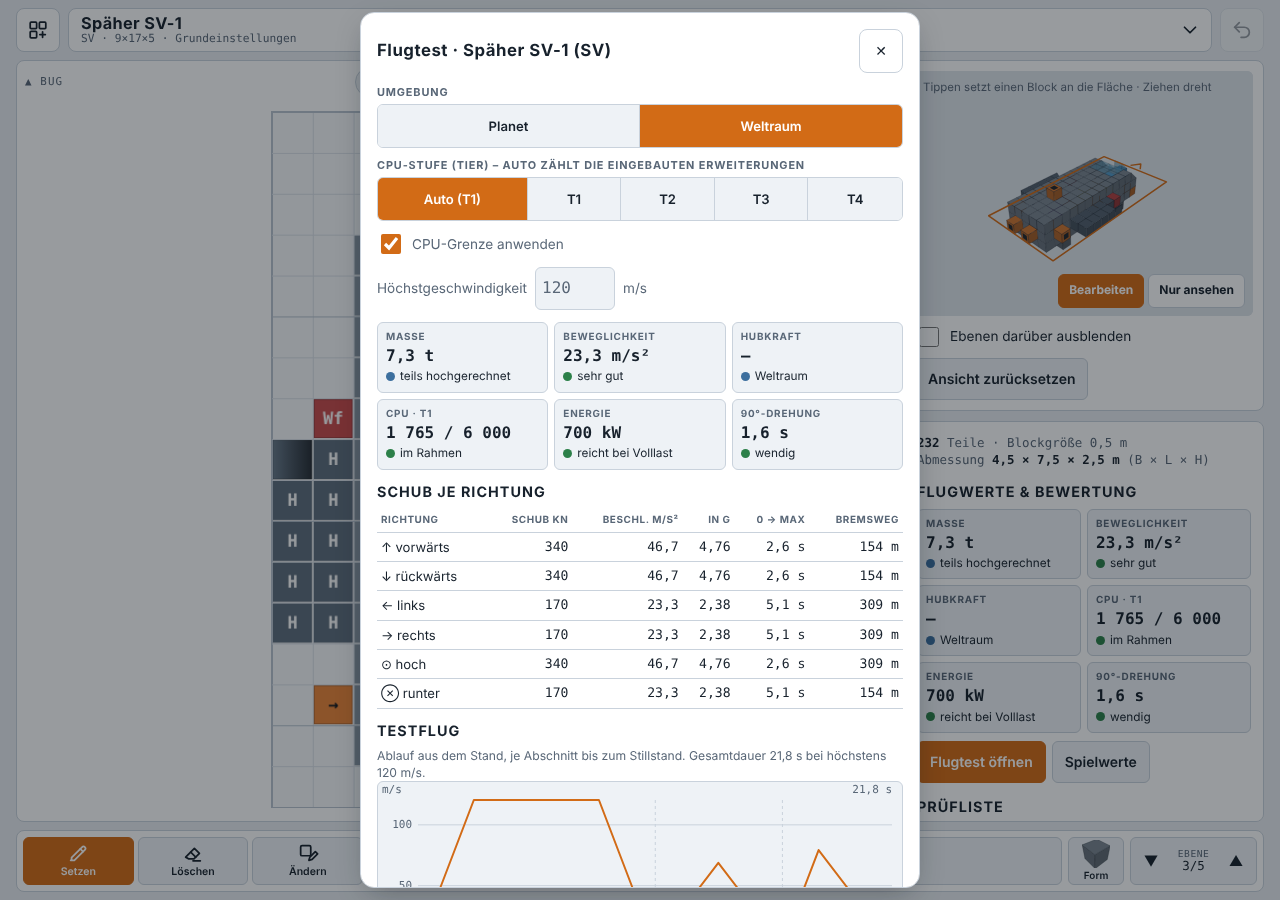
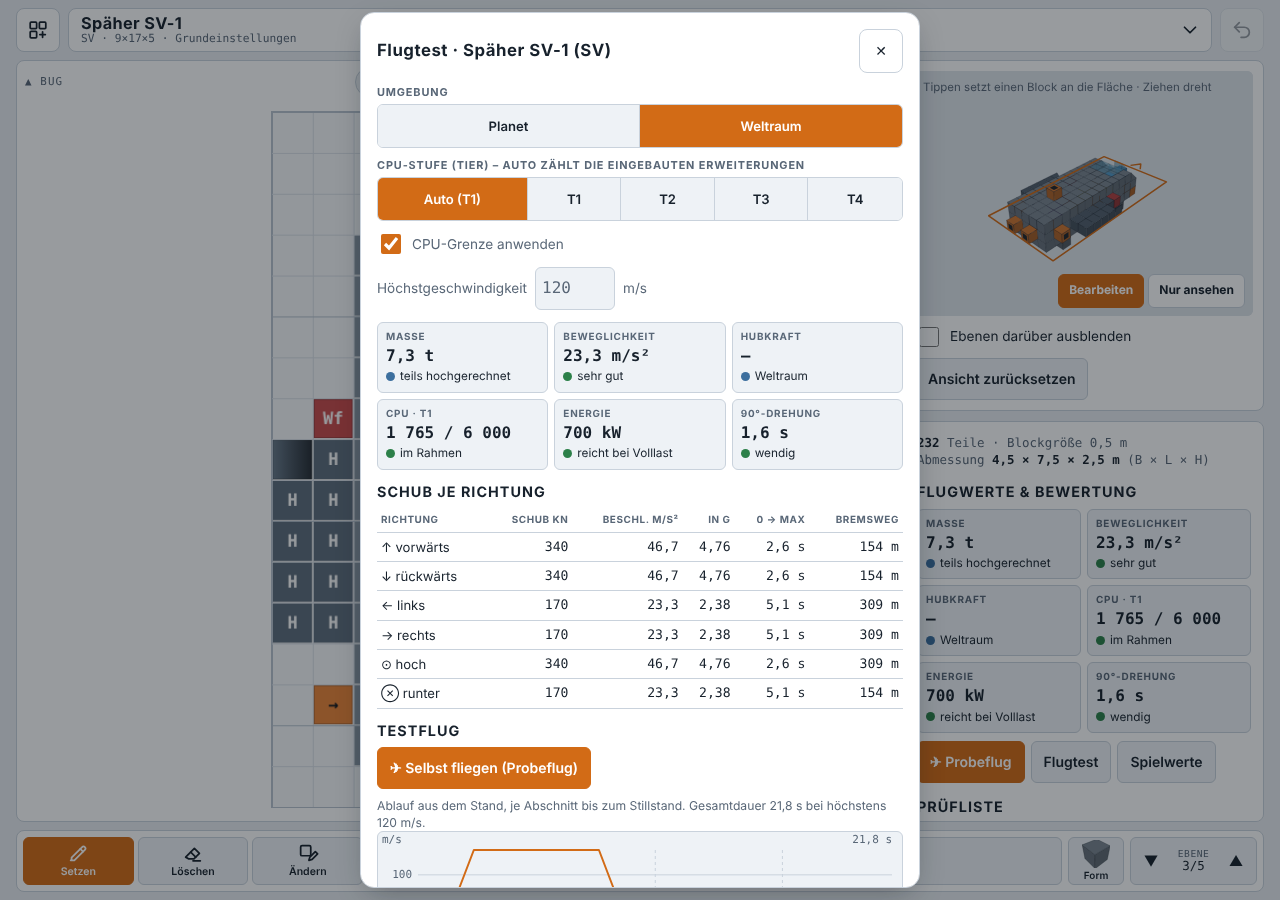
Werftplaner v13: Probeflug – Schiff selbst fliegen mit Touch-Joysticks oder Tastatur, Ringparcours mit Bestzeit
Claude-Session: https://claude.ai/code/session_01EEE27PnyooVbBu9ojswhkn

Changed region(s): [[0.2812, 0.8089, 0.6875, 0.9956], [0.7188, 0.8089, 0.9375, 0.8711]]

diff --git a/index.html b/index.html
@@ -249,6 +249,24 @@ kbd{font-family:var(--f-mono);font-size:.7rem;border:1px solid var(--line);borde
 .ctip{position:absolute;pointer-events:none;background:var(--panel);border:1px solid var(--line);border-radius:6px;padding:4px 7px;font-size:.74rem;font-family:var(--f-mono);box-shadow:var(--shadow);white-space:nowrap;z-index:2}
 .fnote{font-size:.74rem;color:var(--muted);margin:0;line-height:1.45}
 
+/* Probeflug */
+.sim{position:fixed;inset:0;z-index:90;background:#05070c;touch-action:none;user-select:none;-webkit-user-select:none}
+#simCv{position:absolute;inset:0;width:100%;height:100%;display:block}
+.simtop{position:absolute;top:calc(8px + env(safe-area-inset-top,0px));right:max(8px,env(safe-area-inset-right,0px));display:flex;gap:6px;flex-wrap:wrap;justify-content:flex-end;max-width:70%}
+.sim button{font:inherit;color:#fff;background:rgba(10,14,20,.55);border:1px solid rgba(255,255,255,.35);border-radius:8px;min-height:40px;padding:0 12px;font-weight:700;font-size:.8rem;-webkit-backdrop-filter:blur(4px);backdrop-filter:blur(4px)}
+.sim button[aria-pressed="true"]{background:rgba(240,138,46,.85);border-color:#f08a2e;color:#1a0f05}
+.sim button.held{background:rgba(240,138,46,.85);color:#1a0f05}
+.joy{position:absolute;bottom:calc(18px + env(safe-area-inset-bottom,0px));width:132px;height:132px;border-radius:50%;border:2px solid rgba(255,255,255,.35);background:rgba(10,14,20,.28);touch-action:none}
+.joy.l{left:max(18px,env(safe-area-inset-left,0px))} .joy.r{right:max(18px,env(safe-area-inset-right,0px))}
+.joy i{position:absolute;left:50%;top:50%;width:56px;height:56px;margin:-28px 0 0 -28px;border-radius:50%;background:rgba(255,255,255,.55);pointer-events:none}
+.joy b{position:absolute;left:0;right:0;top:-20px;text-align:center;font-size:.66rem;color:rgba(255,255,255,.8);font-weight:700;letter-spacing:.06em;text-transform:uppercase;pointer-events:none}
+.simbtns{position:absolute;bottom:calc(178px + env(safe-area-inset-bottom,0px));display:flex;gap:6px}
+.simbtns.l{left:max(18px,env(safe-area-inset-left,0px))} .simbtns.r{right:max(18px,env(safe-area-inset-right,0px))}
+.simbtns button{min-width:58px;min-height:46px}
+.simhelp{position:absolute;left:50%;bottom:calc(12px + env(safe-area-inset-bottom,0px));transform:translateX(-50%);margin:0;color:rgba(255,255,255,.75);font-size:.72rem;text-align:center;max-width:46vw;pointer-events:none;text-shadow:0 1px 3px #000}
+@media (pointer:fine){.joy,.simbtns{opacity:.75}}
+@media (pointer:coarse){.simhelp .kb{display:none}}
+
 /* Handy: eine Ansicht nach der anderen (Tabs) */
 @media (max-width:959px){
   .shell[data-view="grid"] .side{display:none}
@@ -359,7 +377,7 @@ kbd{font-family:var(--f-mono);font-size:.7rem;border:1px solid var(--line);borde
       <section class="pane infopane" aria-label="Info">
         <div class="meta" id="meta"></div>
         <div><h2>Flugwerte &amp; Bewertung</h2><div class="ftiles" id="ftiles"></div>
-          <div class="fbtns"><button class="btn primary" id="flyBtn">Flugtest öffnen</button><button class="btn" id="statBtn2">Spielwerte</button></div></div>
+          <div class="fbtns"><button class="btn primary" id="simBtn">✈ Probeflug</button><button class="btn" id="flyBtn">Flugtest</button><button class="btn" id="statBtn2">Spielwerte</button></div></div>
         <div><h2>Prüfliste</h2><ul class="checks" id="checks"></ul></div>
         <div><h2>Stückliste</h2><table class="bom" id="bom"></table></div>
         <p class="hint keys">Tastatur: <kbd>B</kbd> Blöcke · <kbd>Q</kbd>/<kbd>E</kbd> Ebene · <kbd>R</kbd> waagrecht drehen · <kbd>T</kbd> kippen · <kbd>F</kbd> rollen · <kbd>M</kbd> spiegeln · <kbd>Strg</kbd>+<kbd>Z</kbd> rückgängig · Rechtsklick löscht</p>
@@ -495,7 +513,7 @@ kbd{font-family:var(--f-mono);font-size:.7rem;border:1px solid var(--line);borde
     </div>
     <div class="ftiles" id="flyTiles"></div>
     <div><h2>Schub je Richtung</h2><div class="fwrap"><table class="ftab" id="flyDirs"></table></div></div>
-    <div><h2>Testflug</h2><p class="hint" id="flyMis"></p>
+    <div><h2>Testflug</h2><button class="btn primary" id="simBtn2" style="margin-bottom:8px">✈ Selbst fliegen (Probeflug)</button><p class="hint" id="flyMis"></p>
       <div class="chartbox" id="chartBox"><canvas id="flyChart" aria-label="Geschwindigkeit über die Zeit beim Testflug"></canvas><div class="ctip" id="ctip" hidden></div></div>
       <div class="fwrap"><table class="ftab" id="flyPhases"></table></div></div>
     <p class="fnote" id="flyNote"></p>
@@ -541,6 +559,16 @@ kbd{font-family:var(--f-mono);font-size:.7rem;border:1px solid var(--line);borde
     </div>
     <button class="btn primary" id="discOk">Verstanden</button>
   </div>
+</div>
+
+<div class="sim" id="sim" hidden role="application" aria-label="Probeflug">
+  <canvas id="simCv"></canvas>
+  <div class="simtop"><button id="simDamp" aria-pressed="true">Dämpfer an</button><button id="simReset">Neustart</button><button id="simCamB">Kamera</button><button id="simClose" aria-label="Probeflug beenden">✕ Ende</button></div>
+  <div class="simbtns l" id="simRoll"><button data-hold="rollL" aria-label="Rollen links">⟲</button><button data-hold="rollR" aria-label="Rollen rechts">⟳</button></div>
+  <div class="simbtns r" id="simVert"><button data-hold="up">▲ Hoch</button><button data-hold="down">▼ Runter</button></div>
+  <div class="joy l" id="joyL"><b>Schub</b><i></i></div>
+  <div class="joy r" id="joyR"><b>Lenken</b><i></i></div>
+  <p class="simhelp"><span class="kb">W/S vor/zurück · A/D seitwärts · Leertaste/C hoch/runter · Pfeile oder Maus ziehen: lenken · Q/E rollen · Z Dämpfer · Esc Ende<br></span>Flieg durch die orangen Ringe!</p>
 </div>
 
 <div id="toast" role="status" aria-live="polite"></div>
@@ -1204,7 +1232,7 @@ function flyCalc(){
   const liftF=cls==='HV'?lift:F.u*eff, liftR=g>0&&m>0?liftF/weight:Infinity;
   const I=(Ix+Iy)/2,alpha=I>0?tq*1000*eff/I:0,t90=alpha>0?2*Math.sqrt((Math.PI/2)/alpha):Infinity;
   const vmax=FLY.vmax[cls+'|'+env]||VMAX_DEF[cls][env]||0;
-  return {cls,tier,autoTier:!FLY.tier2,m,cpu,lim,over,eff,eIn,eThr,eOut,F,a,net,g,weight,liftF,liftR,tq,alpha,t90,vmax,miss,scaled,lift}}
+  return {cls,tier,autoTier:!FLY.tier2,m,cpu,lim,over,eff,eIn,eThr,eOut,F,a,net,g,weight,liftF,liftR,tq,alpha,t90,vmax,miss,scaled,lift,c}}
 /* Strecke D mit Anfahr-Beschleunigung a1, Bremsverzögerung a2 und Höchstgeschwindigkeit v */
 function trip(D,a1,a2,v){if(!(a1>0)||!(a2>0)||!(v>0))return null;
   const dAcc=v*v/(2*a1),dDec=v*v/(2*a2);
@@ -1316,6 +1344,166 @@ function renderStats(){const gk=$('#statGrp').value,tb=$('#statTable'),G=STATS[g
 const openStats=()=>{$('#statGrp').value=S.cls==='HV'?'hv':CLASSES[S.cls].grp;renderStats();$('#statMsg').textContent='';openModal('statModal')};
 $('#statBtn').onclick=openStats;$('#statBtn2').onclick=openStats;$('#statGrp').onchange=renderStats;
 $('#statReset').onclick=()=>{OV=np();saveOV();renderStats();updateInfo();$('#statMsg').textContent='Alle Werte wieder wie in der Blockliste.'};
+
+/* ---------- Probeflug: das Schiff selbst fliegen ----------
+   Lokale Achsen wie im Raster: +x rechts, +y oben, −z vorne (Bug). Werte aus flyCalc (Schub je Richtung, CPU, Schwerkraft, RCS). */
+const SIM={on:false,keys:new Set(),hold:Object.create(null),joyL:[0,0],joyR:[0,0],drag:null,damp:true,cam:0};
+const add3=(a,b)=>[a[0]+b[0],a[1]+b[1],a[2]+b[2]],scl=(a,s)=>[a[0]*s,a[1]*s,a[2]*s];
+const mtv=(M,v)=>[0,1,2].map(i=>M[0][i]*v[0]+M[1][i]*v[1]+M[2][i]*v[2]);
+function rotM(ax,ang){const [x,y,z]=ax,c=Math.cos(ang),s=Math.sin(ang),t=1-c;
+  return [[t*x*x+c,t*x*y-s*z,t*x*z+s*y],[t*x*y+s*z,t*y*y+c,t*y*z-s*x],[t*x*z-s*y,t*y*z+s*x,t*z*z+c]]}
+function ortho(M){let a=norm([M[0][0],M[1][0],M[2][0]]),b=[M[0][1],M[1][1],M[2][1]];const d=dot(a,b);b=norm([b[0]-a[0]*d,b[1]-a[1]*d,b[2]-a[2]*d]);const c=cross(a,b);
+  return [[a[0],b[0],c[0]],[a[1],b[1],c[1]],[a[2],b[2],c[2]]]}
+function simBuild(){
+  const R=flyCalc(),bs=CLASSES[S.cls].bs,wx=S.W/2,wy=S.H/2,wz=S.L/2,c=R.c;
+  const ha=hideAbove;hideAbove=false;let faces=sceneFaces();hideAbove=ha;
+  const toL=p=>[(p[0]+wx)*bs-c[0],(p[1]+wy)*bs-c[1],(p[2]+wz)*bs-c[2]];
+  let mn=[1e9,1e9,1e9],mx=[-1e9,-1e9,-1e9];S.occ.forEach((a,k)=>{const p=P3(k);for(let i=0;i<3;i++){mn[i]=Math.min(mn[i],p[i]);mx[i]=Math.max(mx[i],p[i]+1)}});
+  if(faces.length>7000)faces=boxFaces(mn[0]-wx,mn[1]-wy,mn[2]-wz,mx[0]-wx,mx[1]-wy,mx[2]-wz).map(f=>({...f,rgb:TM.steel.rgb}));
+  const F=faces.map(f=>{const pts=f.pts.map(toL);return {n:f.n,pts,c:pts.reduce((a,p)=>add3(a,scl(p,1/pts.length)),[0,0,0]),rgb:f.rgb,a:f.a,noz:f.noz}});
+  const corners=[];for(const X of [mn[0],mx[0]])for(const Y of [mn[1],mx[1]])for(const Z of [mn[2],mx[2]])corners.push(toL([X-wx,Y-wy,Z-wz]));
+  const size=Math.max(2,...[0,1,2].map(i=>(mx[i]-mn[i])*bs));
+  /* Düsen für das Flammen-Leuchten */
+  const noz=[];S.blocks.forEach((v,k)=>{if(v.t!=='thruster')return;const [x,y,z]=P3(k),[w,h,l]=dims(v),pv=DIRS[v.d].v;
+    const ctr=[x+w/2,y+h/2,z+l/2],half=[w/2,h/2,l/2];noz.push({d:v.d,p:toL([ctr[0]-pv[0]*half[0]-wx,ctr[1]-pv[1]*half[1]-wy,ctr[2]-pv[2]*half[2]-wz]),r:Math.min(w,h,l)*bs*.45})});
+  return {R,F,corners,size,noz}}
+function simReset(){const B=SIM.B,R=B.R,sz=B.size,space=R.g===0;
+  SIM.M=[[1,0,0],[0,1,0],[0,0,1]];SIM.v=[0,0,0];SIM.w=[0,0,0];SIM.t=0;SIM.run=false;SIM.done=false;SIM.msg='';SIM.msgT=0;SIM.ring=0;
+  const minY=Math.min(...B.corners.map(p=>p[1]));SIM.pos=[0,space?0:-minY+(R.cls==='HV'?1.5:0),0];SIM.camC=null;
+  const sc=Math.max(1,sz/14),rr=Math.max(6,sz*1.1),L=[];
+  const xs=[0,35,-35,45,-25,0],ys=space?[0,25,-30,15,-20,10]:[18,34,50,28,62,22],dz=[90,95,100,95,100,105];let z=0;
+  for(let i=0;i<6;i++){z-=dz[i]*sc;const y=R.cls==='HV'?SIM.pos[1]+rr*.6:(space?ys[i]*sc:ys[i]*sc+rr);L.push({c:[xs[i]*sc*(R.cls==='HV'?.6:1),y,z],r:rr})}
+  L.forEach((g,i)=>{const prev=i?L[i-1].c:SIM.pos;g.n=norm(sub(g.c,prev))});SIM.rings=L;
+  if(R.cls==='HV'&&R.g>0&&R.liftR<1)simMsg('Die Schwebetriebwerke tragen das Gewicht nicht – das HV hebt nicht ab.',99);
+  else if(R.cls!=='HV'&&R.g>0&&R.liftR<1)simMsg('Zu wenig Schub nach oben – das Schiff hebt bei '+nf(R.g/G0,2)+' g nicht ab.',6);
+  else if(!R.tq)simMsg('Kein RCS – das Schiff kann sich nicht drehen.',6);
+  else simMsg('Bereit. Flieg durch die orangen Ringe!',3)}
+function simMsg(t,s){SIM.msg=t;SIM.msgT=s}
+function simOpen(){if(!S.blocks.size){toast('Noch keine Blöcke gesetzt');return}
+  if(S.cls==='BA'){toast('Basen können nicht fliegen');return}
+  ['flyModal'].forEach(id=>{if(!$('#'+id).hidden)closeModal(id)});
+  SIM.B=simBuild();const hv=SIM.B.R.cls==='HV';$('#simRoll').hidden=hv;$('#simVert').hidden=hv;
+  $('#sim').hidden=false;SIM.on=true;simReset();SIM.last=0;SIM.keys.clear();
+  if(!SIM.stars){SIM.stars=[];for(let i=0;i<260;i++){const u=Math.random()*2-1,a=Math.random()*6.283,r=Math.sqrt(1-u*u);SIM.stars.push([r*Math.cos(a),u,r*Math.sin(a),Math.random()])}}
+  requestAnimationFrame(simLoop)}
+function simClose(){SIM.on=false;$('#sim').hidden=true}
+function simInput(){const k=SIM.keys,h=SIM.hold,b=x=>x?1:0,cl=x=>Math.max(-1,Math.min(1,x));
+  return {fwd:cl(b(k.has('KeyW'))-b(k.has('KeyS'))+SIM.joyL[1]),str:cl(b(k.has('KeyD'))-b(k.has('KeyA'))+SIM.joyL[0]),
+    vert:cl(b(k.has('Space'))-b(k.has('KeyC'))+b(h.up)-b(h.down)),
+    pitch:cl(b(k.has('ArrowUp'))-b(k.has('ArrowDown'))+SIM.joyR[1]+(SIM.drag?SIM.drag[1]:0)),
+    yaw:cl(b(k.has('ArrowLeft'))-b(k.has('ArrowRight'))-SIM.joyR[0]-(SIM.drag?SIM.drag[0]:0)),
+    roll:cl(b(k.has('KeyQ'))-b(k.has('KeyE'))+b(h.rollL)-b(h.rollR))}}
+function simStep(dt){const B=SIM.B,R=B.R,A=R.a,g=R.g,hv=R.cls==='HV',I=simInput();let M=SIM.M,v=SIM.v;
+  const moving=Math.abs(I.fwd)+Math.abs(I.str)+Math.abs(I.vert)+Math.abs(I.pitch)+Math.abs(I.yaw)+Math.abs(I.roll)>.05;
+  if(moving&&!SIM.run&&!SIM.done)SIM.run=true;if(SIM.run)SIM.t+=dt;
+  /* Drehung */
+  const al=R.alpha,wmax=Math.min(1.3,al*1.6),inp=[I.pitch,hv?I.yaw:I.yaw,hv?0:I.roll];
+  if(hv)inp[0]=0;
+  for(let i=0;i<3;i++){const w=SIM.w[i];if(Math.abs(inp[i])>.05)SIM.w[i]=Math.max(-wmax,Math.min(wmax,w+inp[i]*al*dt*2));
+    else{const d=al*dt*2;SIM.w[i]=Math.abs(w)<=d?0:w-Math.sign(w)*d}}
+  const wl=Math.hypot(...SIM.w);if(wl>1e-6){M=ortho(mul(M,rotM(scl(SIM.w,1/wl),wl*dt)))}
+  /* Schub im Schiffs-System, Dämpfer bremst nicht gesteuerte Achsen und hält gegen die Schwerkraft */
+  const gw=[0,-g,0],gl=mtv(M,gw),vl=mtv(M,v),pos=['r','u','b'],neg=['l','d','f'],ins=[I.str,I.vert,-I.fwd],acc=[0,0,0];SIM.act=new Set();
+  const liftOK=!(R.g>0&&R.liftR<1);
+  for(let k=0;k<3;k++){if(hv&&k===1)continue;const i=ins[k];let a=0;
+    if(Math.abs(i)>.05)a=i>0?i*A[pos[k]]:i*A[neg[k]];
+    else if(SIM.damp){const need=-vl[k]/.35-gl[k];a=Math.max(-A[neg[k]],Math.min(A[pos[k]],need))}
+    if(hv&&!liftOK)a=0;acc[k]=a;const lim=Math.max(A[pos[k]],A[neg[k]])*.08;if(a>lim)SIM.act.add(pos[k]);else if(a<-lim)SIM.act.add(neg[k])}
+  let aw=mv(M,acc);if(!hv)aw=add3(aw,gw);else aw[1]=0;
+  v=add3(v,scl(aw,dt));const sp=Math.hypot(...v);if(R.vmax>0&&sp>R.vmax)v=scl(v,R.vmax/sp);
+  let p=add3(SIM.pos,scl(v,dt));
+  if(g>0){const minY=Math.min(...B.corners.map(c=>mv(M,c)[1]));
+    if(hv){p[1]=-minY+(liftOK?1.5:0);v[1]=0}
+    else if(p[1]+minY<0){if(v[1]<-9&&!SIM.crash){simMsg('Harte Landung mit '+nf(-v[1],0)+' m/s!',2.5)}p[1]=-minY;if(v[1]<0)v[1]=0;const f=Math.pow(.2,dt);v[0]*=f;v[2]*=f}}
+  /* Ringe */
+  const rg=SIM.rings[SIM.ring];if(rg&&!SIM.done){const s0=dot(sub(SIM.pos,rg.c),rg.n),s1=dot(sub(p,rg.c),rg.n);
+    if(s0<0&&s1>=0){const q=sub(p,rg.c),off=sub(q,scl(rg.n,s1));if(Math.hypot(...off)<=rg.r){SIM.ring++;
+      if(SIM.ring>=SIM.rings.length){SIM.done=true;SIM.run=false;const key=(S.name||'Unbenannt')+'|'+S.cls+'|'+(g>0?'p':'s');FLY.best=FLY.best||{};
+        const best=FLY.best[key],nb=!best||SIM.t<best;if(nb){FLY.best[key]=SIM.t;saveFly()}
+        simMsg('Ziel! '+nf(SIM.t,1)+' s'+(nb?(best?' – neue Bestzeit!':' – Bestzeit gespeichert'):' (Bestzeit '+nf(best,1)+' s)'),6)}
+      else simMsg('Ring '+SIM.ring+' / '+SIM.rings.length,1.2)}}}
+  SIM.M=M;SIM.v=v;SIM.pos=p;if(SIM.msgT>0&&SIM.msgT<90)SIM.msgT-=dt}
+function clipProj(cam,W,H,pts,closed){const near=.3,cs=pts.map(p=>{const d=sub(p,cam.C);return [dot(d,cam.r),dot(d,cam.u),dot(d,cam.f)]}),out=[];
+  const n=cs.length,lim=closed?n:n-1;const pr=q=>[W/2+q[0]/q[2]*cam.F,H/2-q[1]/q[2]*cam.F];
+  if(!closed){const segs=[];for(let i=0;i<lim;i++){let a=cs[i],b=cs[i+1];if(a[2]<near&&b[2]<near)continue;
+      if(a[2]<near){const t=(near-a[2])/(b[2]-a[2]);a=a.map((x,j)=>x+(b[j]-x)*t)}if(b[2]<near){const t=(near-b[2])/(a[2]-b[2]);b=b.map((x,j)=>x+(a[j]-x)*t)}
+      segs.push([pr(a),pr(b)])}return segs}
+  for(let i=0;i<n;i++){const a=cs[i],b=cs[(i+1)%n],ia=a[2]>=near,ib=b[2]>=near;if(ia)out.push(a);
+    if(ia!==ib){const t=(near-a[2])/(b[2]-a[2]);out.push(a.map((x,j)=>x+(b[j]-x)*t))}}
+  return out.map(pr)}
+function simDraw(){const cv=$('#simCv'),dpr=Math.min(2,window.devicePixelRatio||1),W=cv.clientWidth,H=cv.clientHeight;if(!W||!H)return;
+  if(cv.width!==Math.round(W*dpr)||cv.height!==Math.round(H*dpr)){cv.width=Math.round(W*dpr);cv.height=Math.round(H*dpr)}
+  const x=cv.getContext('2d');x.setTransform(dpr,0,0,dpr,0,0);const B=SIM.B,R=B.R,M=SIM.M,P0=SIM.pos,space=R.g===0,D=B.size;
+  /* Kamera folgt dem Schiff */
+  const far=SIM.cam?1.9:1.15,want=add3(P0,mv(M,[0,.38*D*far+1,1.05*D*far+3]));
+  SIM.camC=SIM.camC?add3(SIM.camC,scl(sub(want,SIM.camC),Math.min(1,SIM.dt*7))):want;
+  const C=SIM.camC,tgt=add3(P0,mv(M,[0,.12*D,-.6*D])),f=norm(sub(tgt,C)),upH=mv(M,[0,1,0]),r=norm(cross(f,upH)),u=cross(r,f);
+  const cam={C,f,r,u,F:(Math.min(W,H*1.25)/2)/Math.tan(32*Math.PI/180)};
+  if(space){x.fillStyle='#04060b';x.fillRect(0,0,W,H);for(const s of SIM.stars){const d=[s[0],s[1],s[2]],z=dot(d,f);if(z<=.05)continue;
+      const sx=W/2+dot(d,r)/z*cam.F,sy=H/2-dot(d,u)/z*cam.F;if(sx<0||sy<0||sx>W||sy>H)continue;x.fillStyle=`rgba(255,255,255,${.35+s[3]*.6})`;x.fillRect(sx,sy,s[3]>.85?2:1.2,s[3]>.85?2:1.2)}}
+  else{const gr=x.createLinearGradient(0,0,0,H);gr.addColorStop(0,'#3d6fa6');gr.addColorStop(1,'#bcd5e6');x.fillStyle=gr;x.fillRect(0,0,W,H);
+    const Lg=6000,gp=clipProj(cam,W,H,[[P0[0]-Lg,0,P0[2]-Lg],[P0[0]+Lg,0,P0[2]-Lg],[P0[0]+Lg,0,P0[2]+Lg],[P0[0]-Lg,0,P0[2]+Lg]],true);
+    if(gp.length>2){x.fillStyle='#6f7d52';poly(x,gp);x.fill()}
+    const st=D>30?50:20,ext=st*22,ox=Math.round(P0[0]/st)*st,oz=Math.round(P0[2]/st)*st;x.strokeStyle='rgba(255,255,255,.16)';x.lineWidth=1;x.beginPath();
+    for(let i=-22;i<=22;i++){for(const seg of clipProj(cam,W,H,[[ox+i*st,0,oz-ext],[ox+i*st,0,oz+ext]],false)){x.moveTo(...seg[0]);x.lineTo(...seg[1])}
+      for(const seg of clipProj(cam,W,H,[[ox-ext,0,oz+i*st],[ox+ext,0,oz+i*st]],false)){x.moveTo(...seg[0]);x.lineTo(...seg[1])}}x.stroke();
+    /* Schatten als Höhenhilfe */
+    const sh=hull2D(B.corners.map(c=>{const w=add3(P0,mv(M,c));return [w[0],w[2]]})).map(q=>[q[0],.02,q[1]]),sp=clipProj(cam,W,H,sh,true);
+    const hgt=Math.max(0,P0[1]+Math.min(...B.corners.map(c=>mv(M,c)[1])));if(sp.length>2){x.fillStyle=`rgba(0,0,0,${Math.max(.08,.35-hgt/400)})`;poly(x,sp);x.fill()}}
+  /* Ringe: hinter dem Schiff zuerst */
+  const ringPts=g=>{const a=norm(Math.abs(g.n[1])<.9?cross(g.n,[0,1,0]):cross(g.n,[1,0,0])),b=cross(g.n,a),o=[];for(let i=0;i<40;i++){const t=i/40*6.2832;o.push(add3(g.c,add3(scl(a,Math.cos(t)*g.r),scl(b,Math.sin(t)*g.r))))}return o};
+  const drawRing=(g,i)=>{const pts=ringPts(g),segs=[];for(let j=0;j<40;j++)segs.push(...clipProj(cam,W,H,[pts[j],pts[(j+1)%40]],false));
+    const nxt=i===SIM.ring;x.strokeStyle=nxt?'#f08a2e':'rgba(255,255,255,.45)';x.lineWidth=nxt?4:2;x.beginPath();segs.forEach(s=>{x.moveTo(...s[0]);x.lineTo(...s[1])});x.stroke()};
+  const dShip=dot(sub(P0,C),f),rs=SIM.rings.map((g,i)=>({g,i,d:dot(sub(g.c,C),f)})).filter(o=>o.i>=SIM.ring);
+  rs.filter(o=>o.d>=dShip).sort((a,b)=>b.d-a.d).forEach(o=>drawRing(o.g,o.i));
+  /* Schiff */
+  const wf=B.F.map(q=>({n:mv(M,q.n),pts:q.pts.map(p=>add3(P0,mv(M,p))),c:add3(P0,mv(M,q.c)),rgb:q.rgb,a:q.a,noz:q.noz}));
+  renderFaces(x,wf,cam,W,H,.5);
+  const Pj=projector(cam,W,H);x.globalCompositeOperation='lighter';
+  for(const n of B.noz){if(!SIM.act||!SIM.act.has(n.d))continue;const w=add3(P0,mv(M,n.p)),pv=mv(M,DIRS[n.d].v);if(dot(pv,sub(C,w))>0)continue;
+    const q=Pj(w);if(!q)continue;const z=dot(sub(w,C),f),rad=Math.max(3,n.r/z*cam.F*1.4);const gg=x.createRadialGradient(q[0],q[1],0,q[0],q[1],rad);
+    gg.addColorStop(0,'rgba(255,240,200,.95)');gg.addColorStop(.4,'rgba(255,150,40,.7)');gg.addColorStop(1,'rgba(255,90,0,0)');x.fillStyle=gg;x.beginPath();x.arc(q[0],q[1],rad,0,6.3);x.fill()}
+  x.globalCompositeOperation='source-over';
+  rs.filter(o=>o.d<dShip).sort((a,b)=>b.d-a.d).forEach(o=>drawRing(o.g,o.i));
+  /* Pfeil zum nächsten Ring */
+  const nr=SIM.rings[SIM.ring];if(nr){const q=Pj(nr.c);const off=!q||q[0]<0||q[0]>W||q[1]<0||q[1]>H;
+    if(off){const d=sub(nr.c,C),ang=Math.atan2(-dot(d,u),dot(d,r)),cx=W/2+Math.cos(ang)*Math.min(W,H)*.32,cy=H/2+Math.sin(ang)*Math.min(W,H)*.32;
+      x.save();x.translate(cx,cy);x.rotate(ang);x.fillStyle='#f08a2e';x.beginPath();x.moveTo(14,0);x.lineTo(-8,-9);x.lineTo(-8,9);x.closePath();x.fill();x.restore()}}
+  /* Anzeigen */
+  const vl=mtv(M,SIM.v),sp=Math.hypot(...SIM.v),alt=space?null:Math.max(0,P0[1]+Math.min(...B.corners.map(c=>mv(M,c)[1])));
+  const lines=[`${nf(sp,0)} m/s`+(R.vmax?` / ${nf(R.vmax,0)}`:''),space?'Weltraum':`Höhe ${nf(alt,0)} m · Steig ${nf(SIM.v[1],1)} m/s`,
+    `${R.cls} · ${fmtMass(R.m)} · ${space?'0 g':nf(R.g/G0,2)+' g'}`+(R.eff<1?` · Schub ${nf(R.eff*100,0)} %`:'')];
+  x.font='700 15px '+getComputedStyle(document.documentElement).getPropertyValue('--f-mono');x.textAlign='left';x.fillStyle='#fff';x.shadowColor='rgba(0,0,0,.8)';x.shadowBlur=4;
+  const top=12+(parseInt(getComputedStyle(document.documentElement).getPropertyValue('padding-top'))||0)+(W<600?($('.simtop').offsetHeight+6):0);
+  lines.forEach((t,i)=>{x.font=(i?'600 12px ':'700 18px ')+'system-ui,sans-serif';x.fillText(t,12,top+18+i*18+(i?4:0))});
+  x.font='700 16px system-ui,sans-serif';x.textAlign='center';
+  x.fillText(SIM.done?`Ziel · ${nf(SIM.t,1)} s`:`Ring ${Math.min(SIM.ring+1,SIM.rings.length)} / ${SIM.rings.length} · ${nf(SIM.t,1)} s`,W/2,top+76);
+  if(SIM.msgT>0){x.font='700 17px system-ui,sans-serif';x.fillStyle='#ffd7ad';const words=SIM.msg;x.fillText(words,W/2,H*.32)}
+  x.shadowBlur=0}
+function simLoop(t){if(!SIM.on)return;const dt=SIM.last?Math.min(.05,(t-SIM.last)/1000):0;SIM.last=t;SIM.dt=dt;
+  let n=Math.max(1,Math.ceil(dt/.0167));for(let i=0;i<n;i++)simStep(dt/n);simDraw();requestAnimationFrame(simLoop)}
+/* Bedienung */
+function joy(el,store){let id=null;const kn=el.querySelector('i'),set=(e)=>{const r=el.getBoundingClientRect(),R0=r.width/2;let dx=e.clientX-r.left-R0,dy=e.clientY-r.top-R0;
+    const l=Math.hypot(dx,dy),mx=R0*.75;if(l>mx){dx*=mx/l;dy*=mx/l}kn.style.transform=`translate(${dx}px,${dy}px)`;
+    const dz=v=>Math.abs(v)<.12?0:v;SIM[store]=[dz(dx/mx),dz(-dy/mx)]};
+  el.addEventListener('pointerdown',e=>{id=e.pointerId;try{el.setPointerCapture(id)}catch(_){}set(e);e.preventDefault()});
+  el.addEventListener('pointermove',e=>{if(e.pointerId===id)set(e)});
+  const end=e=>{if(e.pointerId!==id)return;id=null;kn.style.transform='';SIM[store]=[0,0]};el.addEventListener('pointerup',end);el.addEventListener('pointercancel',end)}
+joy($('#joyL'),'joyL');joy($('#joyR'),'joyR');
+document.querySelectorAll('[data-hold]').forEach(b=>{const k=b.dataset.hold,on=e=>{SIM.hold[k]=1;b.classList.add('held');try{b.setPointerCapture(e.pointerId)}catch(_){}e.preventDefault()},
+  off=()=>{SIM.hold[k]=0;b.classList.remove('held')};b.addEventListener('pointerdown',on);b.addEventListener('pointerup',off);b.addEventListener('pointercancel',off);b.addEventListener('lostpointercapture',off)});
+(function(){const cv=$('#simCv');let st=null;cv.addEventListener('pointerdown',e=>{if(e.pointerType!=='mouse')return;st=[e.clientX,e.clientY];try{cv.setPointerCapture(e.pointerId)}catch(_){}});
+  cv.addEventListener('pointermove',e=>{if(!st)return;SIM.drag=[Math.max(-1,Math.min(1,(e.clientX-st[0])/120)),Math.max(-1,Math.min(1,-(e.clientY-st[1])/120))]});
+  const end=()=>{st=null;SIM.drag=null};cv.addEventListener('pointerup',end);cv.addEventListener('pointercancel',end)})();
+const SIMKEYS=new Set(['KeyW','KeyA','KeyS','KeyD','KeyQ','KeyE','KeyC','Space','ArrowUp','ArrowDown','ArrowLeft','ArrowRight']);
+window.addEventListener('keydown',e=>{if(!SIM.on)return;e.stopImmediatePropagation();
+  if(e.code==='Escape'){simClose();return}if(e.code==='KeyZ'){$('#simDamp').click();return}if(e.code==='KeyR'){simReset();return}
+  if(SIMKEYS.has(e.code)){SIM.keys.add(e.code);e.preventDefault()}},true);
+window.addEventListener('keyup',e=>{if(!SIM.on)return;e.stopImmediatePropagation();SIM.keys.delete(e.code);if(SIMKEYS.has(e.code))e.preventDefault()},true);
+window.addEventListener('blur',()=>{SIM.keys.clear()});
+$('#simDamp').onclick=()=>{SIM.damp=!SIM.damp;$('#simDamp').setAttribute('aria-pressed',SIM.damp);$('#simDamp').textContent=SIM.damp?'Dämpfer an':'Dämpfer aus';simMsg(SIM.damp?'Trägheitsdämpfer an – das Schiff bremst selbst':'Trägheitsdämpfer aus – das Schiff treibt weiter',2)};
+$('#simReset').onclick=simReset;$('#simClose').onclick=simClose;$('#simCamB').onclick=()=>{SIM.cam=SIM.cam?0:1};
+$('#simBtn').onclick=simOpen;$('#simBtn2').onclick=simOpen;
 
 /* ---------- Bestehenden Block ändern ---------- */
 const HULLS=TYPES.filter(t=>t.hull);

diff --git a/sw.js b/sw.js
@@ -1,6 +1,6 @@
 // Werftplaner – Offline-Speicher
 // Bei einer neuen Version die Nummer erhöhen, damit Handys die neuen Dateien laden.
-const CACHE = 'werftplaner-v12';
+const CACHE = 'werftplaner-v13';
 const ASSETS = [
   './',
   './index.html',
